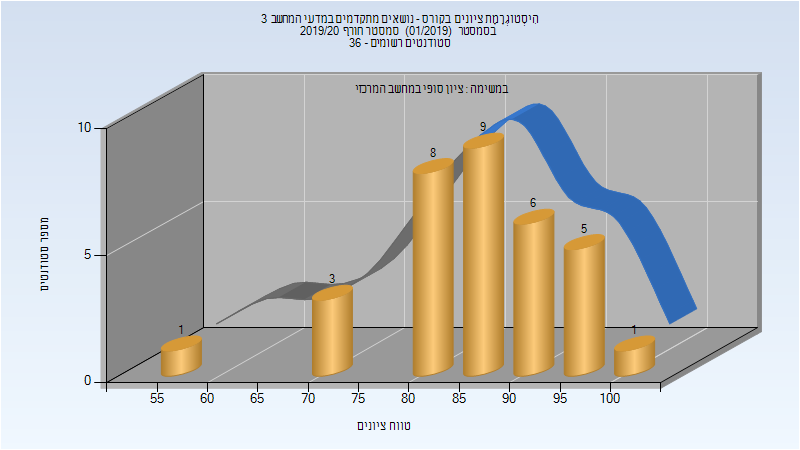
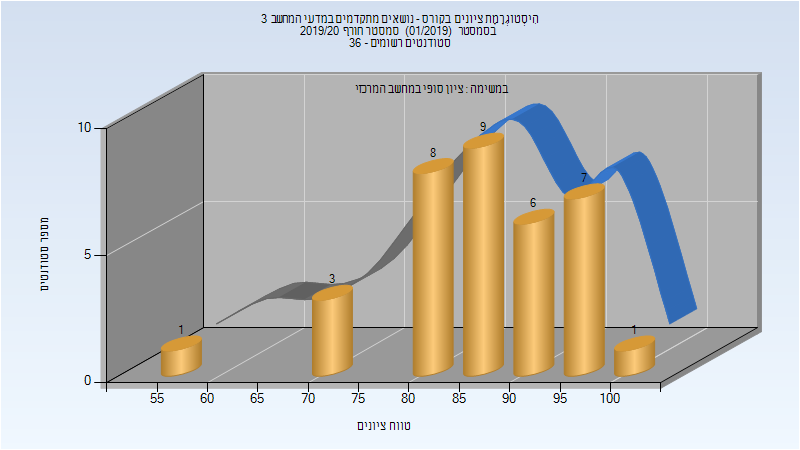
Deploy michael-maltsev/technion-histograms to github.com/michael-maltsev/technion-histograms.git:gh-pages

Changed region(s): [[0.6875, 0.3422, 0.875, 0.6844]]

diff --git a/236603/index.html b/236603/index.html
@@ -63,12 +63,12 @@
 </thead>
 <tbody>
 <tr>
-<td>33</td>
-<td>33/0</td>
+<td>35</td>
+<td>35/0</td>
 <td>100</td>
 <td>56</td>
 <td>100</td>
-<td>85.939</td>
+<td>86.629</td>
 <td>87</td>
 </tr>
 </tbody>

diff --git a/236603/README.md b/236603/README.md
@@ -18,5 +18,5 @@
 
 | סטודנטים | עברו/נכשלו | אחוז עוברים | ציון מינימלי | ציון מקסימלי | ממוצע | חציון |
 | ---- | ---- | ---- | ---- | ---- | ---- | ---- |
-| 33 | 33/0 | 100 | 56 | 100 | 85.939 | 87 |
+| 35 | 35/0 | 100 | 56 | 100 | 86.629 | 87 |
 
